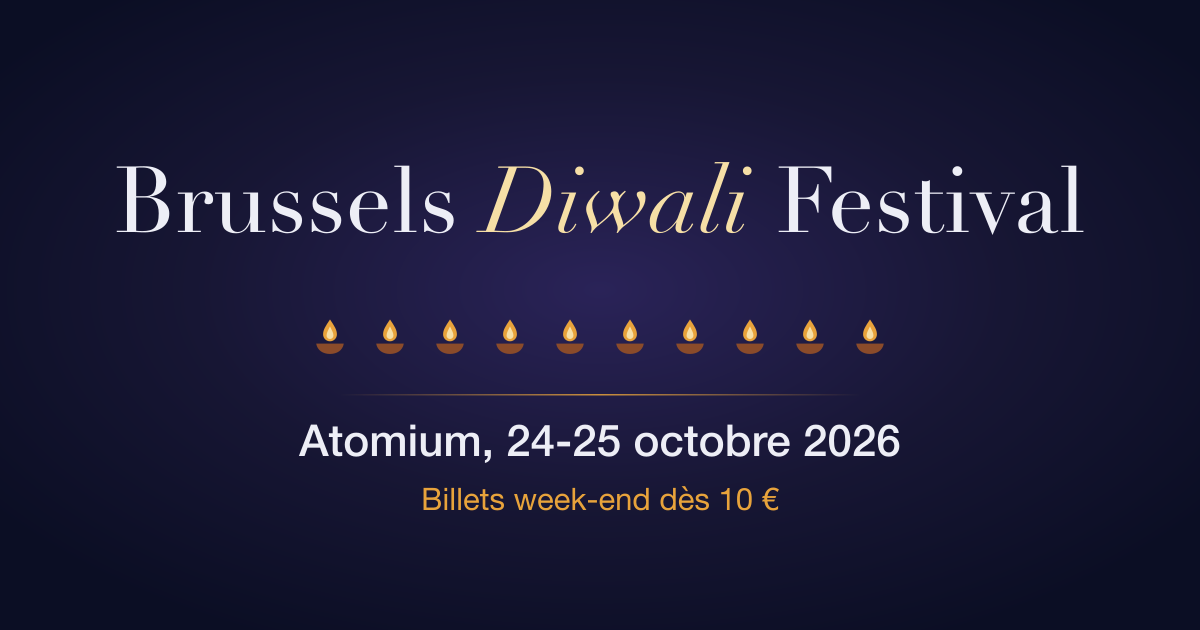
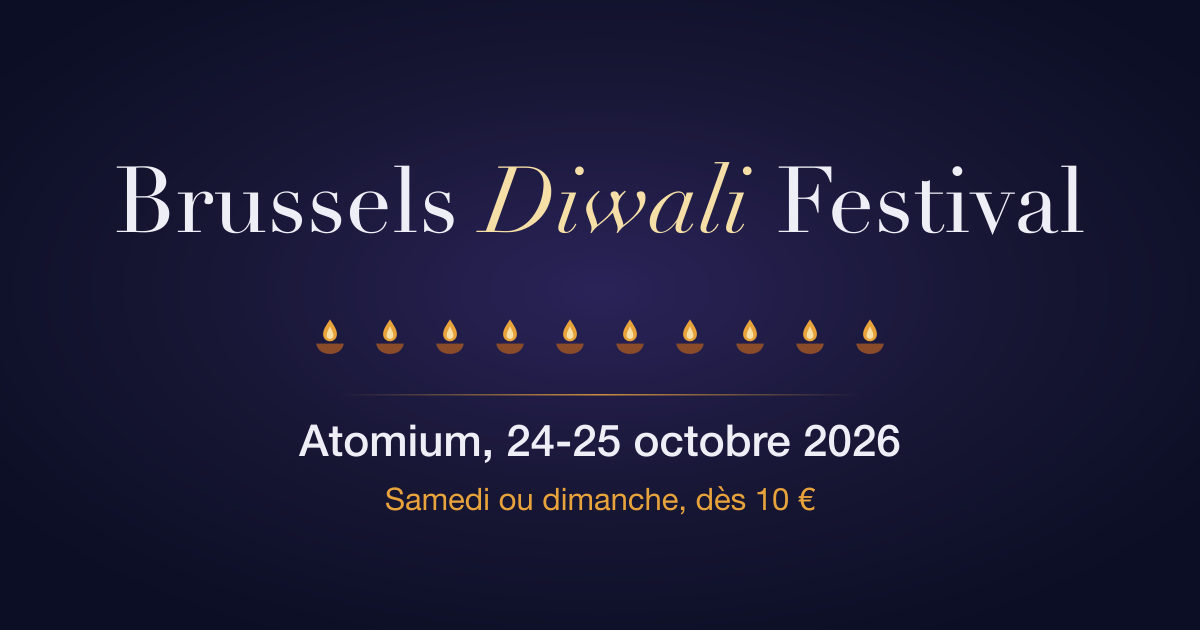
Come Saturday or Sunday, or both
"Unlimited access on both days" describes a ticket. "Come Saturday or Sunday,
or both" invites somebody to a festival, and it answers the question people
actually have when a two day event has one price: do I have to pick a day.

Replaced across the site copy, the Tickets section and the FAQ in all three
languages: the CTA note, the presale row, the booking note, the tickets
heading, the practical answer and the mobile sticky bar. The FAQ question
becomes "Can I come on Saturday and Sunday?", which is the question as asked
rather than as a validity rule, and the refund answer no longer explains that
a date change is unnecessary by citing validity.

Also in the two places that say it outside the site: the welcome and My
tickets replies on WhatsApp and the web widget, which quote ticket counts to
buyers, and the Open Graph share cards, which had "Weekend tickets from 10
EUR" baked into the image in all three languages. Regenerated.

The Tickets block would have said the same sentence three times running, so
the presale row varies it rather than repeating the heading and the footnote
verbatim.

Prices and dates untouched.

Changed region(s): [[0.3083, 0.754, 0.6783, 0.8143]]

diff --git a/functions/api/_faq.js b/functions/api/_faq.js
@@ -38,14 +38,14 @@ A: Yes, 15 EUR at the gate, card preferred.
 Q: Do children need a ticket?
 A: Children under 12 enter free but must be registered with a free child ticket when you book, so we can count everyone on site. Each child gets their own festival wristband.
 
-Q: Is the ticket valid for both days?
-A: Yes, one ticket lets you visit both days, as long as it is used by the same person.
+Q: Can I come on Saturday and Sunday?
+A: Yes. One ticket covers the whole festival, so come Saturday or Sunday, or both, as long as it is used by the same person.
 
 Q: I did not receive my ticket.
 A: Check your spam folder for an email from Ticket Tailor. If it is not there, write to diwali@artindia.be with the name used at purchase.
 
 Q: Can I get a refund or change the date?
-A: Tickets are not refundable. Your ticket is valid on both days, so no date change is needed.
+A: Tickets are not refundable. You can come Saturday or Sunday, or both, so there is no date to change.
 
 Q: Do I need to print my ticket?
 A: No. Show the QR code on your phone at the entrance.
@@ -167,14 +167,14 @@ R: Oui, 15 EUR à l'entrée, de préférence par carte.
 Q: Les enfants ont-ils besoin d'un billet ?
 R: Les enfants de moins de 12 ans entrent gratuitement mais doivent être enregistrés avec un billet enfant gratuit lors de la réservation, pour que nous puissions compter tout le monde sur le site. Chaque enfant reçoit son propre bracelet du festival.
 
-Q: Le billet est-il valable les deux jours ?
-R: Oui, un billet permet de venir les deux jours, à condition qu'il soit utilisé par la même personne.
+Q: Puis-je venir le samedi et le dimanche ?
+R: Oui. Un billet couvre tout le festival : venez le samedi ou le dimanche, ou les deux, à condition qu'il soit utilisé par la même personne.
 
 Q: Je n'ai pas reçu mon billet.
 R: Vérifiez votre dossier spam pour un e-mail de Ticket Tailor. S'il n'y est pas, écrivez à diwali@artindia.be avec le nom utilisé lors de l'achat.
 
 Q: Puis-je être remboursé ou changer de date ?
-R: Les billets ne sont pas remboursables. Votre billet est valable les deux jours, aucun changement de date n'est nécessaire.
+R: Les billets ne sont pas remboursables. Vous pouvez venir le samedi ou le dimanche, ou les deux, il n'y a donc pas de date à changer.
 
 Q: Dois-je imprimer mon billet ?
 R: Non. Montrez le code QR sur votre téléphone à l'entrée.
@@ -296,14 +296,14 @@ A: Ja, 15 EUR aan de ingang, bij voorkeur met kaart.
 V: Hebben kinderen een ticket nodig?
 A: Kinderen onder 12 jaar mogen gratis binnen, maar moeten bij het boeken geregistreerd worden met een gratis kinderticket, zodat we iedereen op het terrein kunnen tellen. Elk kind krijgt een eigen festivalbandje.
 
-V: Is het ticket geldig op beide dagen?
-A: Ja, met één ticket kunt u beide dagen komen, zolang het door dezelfde persoon wordt gebruikt.
+V: Kan ik op zaterdag en zondag komen?
+A: Ja. Eén ticket geldt voor het hele festival: kom op zaterdag of zondag, of allebei, zolang het door dezelfde persoon wordt gebruikt.
 
 V: Ik heb mijn ticket niet ontvangen.
 A: Kijk in uw spammap naar een e-mail van Ticket Tailor. Staat hij er niet, mail dan naar diwali@artindia.be met de naam die u bij de aankoop gebruikte.
 
 V: Kan ik een terugbetaling of een andere datum krijgen?
-A: Tickets worden niet terugbetaald. Uw ticket is geldig op beide dagen, dus een datumwijziging is niet nodig.
+A: Tickets worden niet terugbetaald. U kunt op zaterdag of zondag komen, of allebei, dus er is geen datum om te wijzigen.
 
 V: Moet ik mijn ticket afdrukken?
 A: Nee. Toon de QR-code op uw telefoon aan de ingang.

diff --git a/functions/api/_bot.js b/functions/api/_bot.js
@@ -333,9 +333,9 @@ export const LINK_IS_ELSEWHERE = {
 };
 
 export const WEB_MY_TICKETS = (lang, adults, children) => ({
-  en: `You have ${adults} adult and ${children} child ticket${children === 1 ? '' : 's'}, valid on both days. The QR code is in your Ticket Tailor email.`,
-  fr: `Vous avez ${adults} billet${adults === 1 ? '' : 's'} adulte${adults === 1 ? '' : 's'} et ${children} billet${children === 1 ? '' : 's'} enfant${children === 1 ? '' : 's'}, valables les deux jours. Le QR code est dans votre e-mail Ticket Tailor.`,
-  nl: `U heeft ${adults} volwassenenticket${adults === 1 ? '' : 's'} en ${children} kinderticket${children === 1 ? '' : 's'}, geldig op beide dagen. De QR-code staat in uw Ticket Tailor e-mail.`,
+  en: `You have ${adults} adult and ${children} child ticket${children === 1 ? '' : 's'}, come Saturday or Sunday, or both. The QR code is in your Ticket Tailor email.`,
+  fr: `Vous avez ${adults} billet${adults === 1 ? '' : 's'} adulte${adults === 1 ? '' : 's'} et ${children} billet${children === 1 ? '' : 's'} enfant${children === 1 ? '' : 's'}, venez le samedi ou le dimanche, ou les deux. Le QR code est dans votre e-mail Ticket Tailor.`,
+  nl: `U heeft ${adults} volwassenenticket${adults === 1 ? '' : 's'} en ${children} kinderticket${children === 1 ? '' : 's'}, kom op zaterdag of zondag, of allebei. De QR-code staat in uw Ticket Tailor e-mail.`,
 }[lang] || '');
 
 export const NO_TICKET_FOR_EMAIL = {
@@ -545,9 +545,9 @@ export function myTicketsReply(lang, adults, children) {
   }[lang] || '';
 
   return {
-    en: `${counted}, valid on both days. Show the QR code from your Ticket Tailor email at the entrance. Didn't receive it? Write to diwali@artindia.be.`,
-    fr: `${counted}, valables les deux jours. Présentez le QR code de votre e-mail Ticket Tailor à l'entrée. Vous ne l'avez pas reçu ? Écrivez à diwali@artindia.be.`,
-    nl: `${counted}, geldig op beide dagen. Toon de QR-code uit uw Ticket Tailor e-mail aan de ingang. Niet ontvangen? Mail naar diwali@artindia.be.`,
+    en: `${counted}, come Saturday or Sunday, or both. Show the QR code from your Ticket Tailor email at the entrance. Didn't receive it? Write to diwali@artindia.be.`,
+    fr: `${counted}, venez le samedi ou le dimanche, ou les deux. Présentez le QR code de votre e-mail Ticket Tailor à l'entrée. Vous ne l'avez pas reçu ? Écrivez à diwali@artindia.be.`,
+    nl: `${counted}, kom op zaterdag of zondag, of allebei. Toon de QR-code uit uw Ticket Tailor e-mail aan de ingang. Niet ontvangen? Mail naar diwali@artindia.be.`,
   }[lang] || '';
 }
 

diff --git a/docs/faq.md b/docs/faq.md
@@ -35,14 +35,14 @@ A: Yes, 15 EUR at the gate, card preferred.
 Q: Do children need a ticket?
 A: Children under 12 enter free but must be registered with a free child ticket when you book, so we can count everyone on site. Each child gets their own festival wristband.
 
-Q: Is the ticket valid for both days?
-A: Yes, one ticket lets you visit both days, as long as it is used by the same person.
+Q: Can I come on Saturday and Sunday?
+A: Yes. One ticket covers the whole festival, so come Saturday or Sunday, or both, as long as it is used by the same person.
 
 Q: I did not receive my ticket.
 A: Check your spam folder for an email from Ticket Tailor. If it is not there, write to diwali@artindia.be with the name used at purchase.
 
 Q: Can I get a refund or change the date?
-A: Tickets are not refundable. Your ticket is valid on both days, so no date change is needed.
+A: Tickets are not refundable. You can come Saturday or Sunday, or both, so there is no date to change.
 
 Q: Do I need to print my ticket?
 A: No. Show the QR code on your phone at the entrance.
@@ -164,14 +164,14 @@ R: Oui, 15 EUR à l'entrée, de préférence par carte.
 Q: Les enfants ont-ils besoin d'un billet ?
 R: Les enfants de moins de 12 ans entrent gratuitement mais doivent être enregistrés avec un billet enfant gratuit lors de la réservation, pour que nous puissions compter tout le monde sur le site. Chaque enfant reçoit son propre bracelet du festival.
 
-Q: Le billet est-il valable les deux jours ?
-R: Oui, un billet permet de venir les deux jours, à condition qu'il soit utilisé par la même personne.
+Q: Puis-je venir le samedi et le dimanche ?
+R: Oui. Un billet couvre tout le festival : venez le samedi ou le dimanche, ou les deux, à condition qu'il soit utilisé par la même personne.
 
 Q: Je n'ai pas reçu mon billet.
 R: Vérifiez votre dossier spam pour un e-mail de Ticket Tailor. S'il n'y est pas, écrivez à diwali@artindia.be avec le nom utilisé lors de l'achat.
 
 Q: Puis-je être remboursé ou changer de date ?
-R: Les billets ne sont pas remboursables. Votre billet est valable les deux jours, aucun changement de date n'est nécessaire.
+R: Les billets ne sont pas remboursables. Vous pouvez venir le samedi ou le dimanche, ou les deux, il n'y a donc pas de date à changer.
 
 Q: Dois-je imprimer mon billet ?
 R: Non. Montrez le code QR sur votre téléphone à l'entrée.
@@ -293,14 +293,14 @@ A: Ja, 15 EUR aan de ingang, bij voorkeur met kaart.
 V: Hebben kinderen een ticket nodig?
 A: Kinderen onder 12 jaar mogen gratis binnen, maar moeten bij het boeken geregistreerd worden met een gratis kinderticket, zodat we iedereen op het terrein kunnen tellen. Elk kind krijgt een eigen festivalbandje.
 
-V: Is het ticket geldig op beide dagen?
-A: Ja, met één ticket kunt u beide dagen komen, zolang het door dezelfde persoon wordt gebruikt.
+V: Kan ik op zaterdag en zondag komen?
+A: Ja. Eén ticket geldt voor het hele festival: kom op zaterdag of zondag, of allebei, zolang het door dezelfde persoon wordt gebruikt.
 
 V: Ik heb mijn ticket niet ontvangen.
 A: Kijk in uw spammap naar een e-mail van Ticket Tailor. Staat hij er niet, mail dan naar diwali@artindia.be met de naam die u bij de aankoop gebruikte.
 
 V: Kan ik een terugbetaling of een andere datum krijgen?
-A: Tickets worden niet terugbetaald. Uw ticket is geldig op beide dagen, dus een datumwijziging is niet nodig.
+A: Tickets worden niet terugbetaald. U kunt op zaterdag of zondag komen, of allebei, dus er is geen datum om te wijzigen.
 
 V: Moet ik mijn ticket afdrukken?
 A: Nee. Toon de QR-code op uw telefoon aan de ingang.
